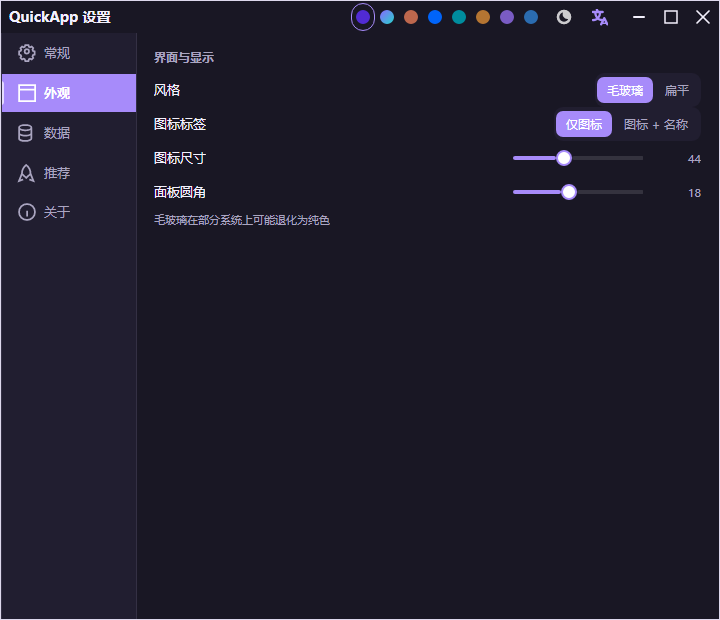
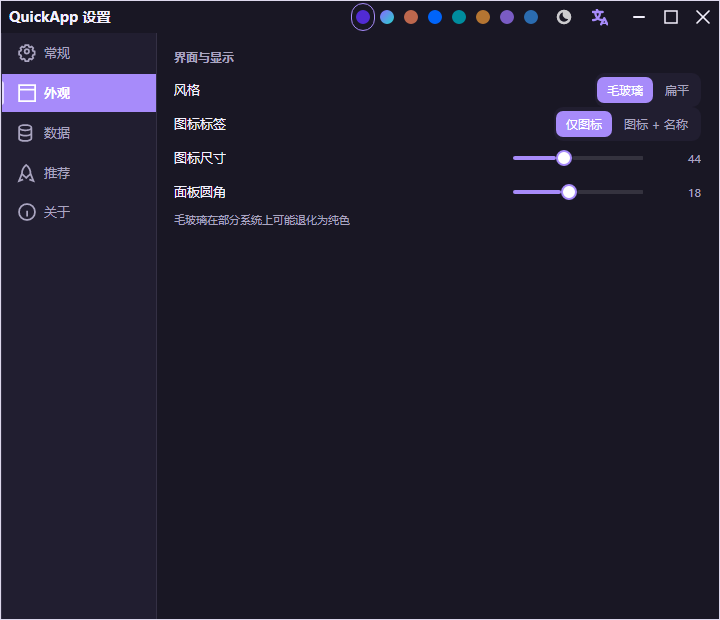
chore(release): 发布 0.9.4 并同步原型与原生验收截图

Changed region(s): [[0.2139, 0.2452, 0.4889, 0.3677], [0.1833, 0.0613, 0.3361, 0.2145]]

diff --git a/design/index.html b/design/index.html
@@ -418,7 +418,7 @@ html[data-edit="true"] .dock-tools{
 .modal-body{padding:6px 16px 16px}
 .settings-card{width:700px;max-width:94vw;overflow:hidden}
 .settings-layout{display:flex;min-height:430px;max-height:calc(86vh - 58px)}
-.settings-nav{width:136px;flex:0 0 auto;padding:8px 0;background:var(--hover);border-right:1px solid var(--line);display:flex;flex-direction:column;gap:2px}
+.settings-nav{width:156px;flex:0 0 auto;padding:8px 0;background:var(--hover);border-right:1px solid var(--line);display:flex;flex-direction:column;gap:2px}
 .settings-tab{
   position:relative;display:flex;align-items:center;width:100%;height:38px;padding:0 18px;
   color:var(--text-dim);font-size:13px;text-align:left;border-radius:0;transition:background 140ms linear,color 140ms linear;
@@ -900,7 +900,7 @@ html[data-edge="left"] .dock-items.searching,html[data-edge="right"] .dock-items
             <div><strong>QuickApp</strong><span>快捷应用启动器</span></div>
           </div>
           <div class="group">
-            <div class="row"><span class="row-label">版本</span><span class="spacer"></span><span class="row-note">v0.9.3</span></div>
+            <div class="row"><span class="row-label">版本</span><span class="spacer"></span><span class="row-note">v0.9.4</span></div>
             <div class="row"><span class="row-label">开发平台</span><span class="spacer"></span><span class="row-note">.NET 10 · Avalonia 12.1.4 · win-x64</span></div><div class="row"><span class="row-label">编译时间</span><span class="spacer"></span><span class="row-note">2026-10-15 00:00:00</span></div><div class="row"><span class="row-label">定位</span><span class="spacer"></span><span class="row-note">快速打开软件、文件、目录、网址与常用命令</span></div>
           </div>
           <div class="group">
@@ -925,7 +925,7 @@ html[data-edge="left"] .dock-items.searching,html[data-edge="right"] .dock-items
 <div class="modal-layer" id="aboutLayer" hidden><div class="scrim" data-dismiss="aboutLayer"></div><div class="modal-card standalone-about" role="dialog" aria-modal="true" aria-labelledby="standaloneAboutTitle">
 <div class="modal-head"><h2 id="standaloneAboutTitle">关于</h2><button class="icon-btn" id="standaloneAboutClose" data-icon="x" aria-label="关闭"></button></div>
[1 lines of base64/hex data omitted]
-<dl class="standalone-about-info"><dt>版本</dt><dd>v0.9.3</dd><dt>开发平台</dt><dd>.NET 10 · Avalonia 12.1.4 · win-x64</dd><dt>编译时间</dt><dd>2026-10-15 00:00:00</dd><dt>作者</dt><dd>沙漠尽头的狼</dd></dl>
+<dl class="standalone-about-info"><dt>版本</dt><dd>v0.9.4</dd><dt>开发平台</dt><dd>.NET 10 · Avalonia 12.1.4 · win-x64</dd><dt>编译时间</dt><dd>2026-10-15 00:00:00</dd><dt>作者</dt><dd>沙漠尽头的狼</dd></dl>
 <p class="row-note">https://github.com/dotnet9/QuickApp</p><hr><p id="standaloneUpdateStatus">尚未检查</p><div class="about-links"><button class="chip" id="standaloneCheckUpdate">检查更新</button></div><p class="row-note">版权所有 © Dotnet9</p></div></div></div>
 <div class="modal-layer" id="editorLayer" hidden><div class="scrim" data-dismiss="editorLayer"></div><form class="modal-card item-editor" id="editor" role="dialog" aria-modal="true" aria-labelledby="editorTitle">
 <div class="modal-head"><h2 id="editorTitle">编辑快捷项</h2><button type="button" class="icon-btn" data-icon="x" id="close" aria-label="关闭"></button></div>
@@ -1927,7 +1927,7 @@ window.QA = (function(){
   $('#standaloneAboutClose').onclick = () => closeLayer('aboutLayer');
   $('#standaloneCheckUpdate').onclick = () => {
     $('#standaloneUpdateStatus').textContent='正在检查…';$('#standaloneCheckUpdate').disabled=true;
-    setTimeout(()=>{update={phase:'found',tag:'v0.9.4',progress:0,installer:true,notes:'维护更新'};$('#standaloneUpdateStatus').textContent='发现新版本 v0.9.4';$('#standaloneCheckUpdate').disabled=false;openUpdateNotes();},500);
+    setTimeout(()=>{update={phase:'found',tag:'v0.9.5',progress:0,installer:true,notes:'维护更新'};$('#standaloneUpdateStatus').textContent='发现新版本 v0.9.5';$('#standaloneCheckUpdate').disabled=false;openUpdateNotes();},500);
   }; $('#dialogClose').onclick = () => closeLayer('dialogLayer');
   $$('[data-dismiss]').forEach(el => el.onclick = () => closeLayer(el.dataset.dismiss));
   $$('[data-tab]').forEach((tab, i, tabs) => {
@@ -1945,12 +1945,12 @@ window.QA = (function(){
   $('#aboutLicense').onclick = () => dialog('许可证', [h('h3', {text:'MIT License'}), h('p', {text:'Copyright (c) QuickApp contributors'}), h('p', {text:'Permission is hereby granted, free of charge, to any person obtaining a copy of this software and associated documentation files, to deal in the Software without restriction.'}), h('p', {text:'THE SOFTWARE IS PROVIDED “AS IS”, WITHOUT WARRANTY OF ANY KIND.'})], [chip('关闭', () => closeLayer('dialogLayer'), true)]);
   $('#aboutCheckUpdate').onclick = () => {
     $('#aboutCheckResult').textContent = '正在检查…'; $('#aboutCheckUpdate').disabled = true;
-    setTimeout(() => { update = {phase:'found', tag:'v0.9.4', progress:0, installer:true, notes:'## 应用多开（启动数量）\n\n- 程序 / 文件 / 目录条目可填写「启动数量」，一次点击连续启动多个实例。\n- 旧配置没有该字段即为 1，导入导出与存储模式切换一并保留。\n- 在「关于」检查到新版本时直接弹出版本说明。'}; $('#aboutCheckResult').textContent = '发现新版本 v0.9.4'; $('#aboutCheckUpdate').disabled = false; closeLayer('settingsLayer'); openUpdateNotes(); }, 500);
+    setTimeout(() => { update = {phase:'found', tag:'v0.9.5', progress:0, installer:true, notes:'## 应用多开（启动数量）\n\n- 程序 / 文件 / 目录条目可填写「启动数量」，一次点击连续启动多个实例。\n- 旧配置没有该字段即为 1，导入导出与存储模式切换一并保留。\n- 在「关于」检查到新版本时直接弹出版本说明。'}; $('#aboutCheckResult').textContent = '发现新版本 v0.9.5'; $('#aboutCheckUpdate').disabled = false; closeLayer('settingsLayer'); openUpdateNotes(); }, 500);
   };
   /* 版本说明卡片：已安装版本 / 最新版本 / 更新说明；按钮在 下载 → 安装 之间切换 */
   function openUpdateNotes() {
     const notes = h('div', {class:'stack'},
-      h('div', {class:'row'}, h('span', {class:'row-label', text:'已安装版本'}), h('span', {class:'spacer'}), h('span', {class:'row-note', text:'v0.9.3'})),
+      h('div', {class:'row'}, h('span', {class:'row-label', text:'已安装版本'}), h('span', {class:'spacer'}), h('span', {class:'row-note', text:'v0.9.4'})),
       h('div', {class:'row'}, h('span', {class:'row-label', text:'最新版本'}), h('span', {class:'spacer'}), h('span', {class:'row-note update-notes-version', text:update.tag})),
       h('label', {text:'更新说明'}), h('pre', {class:'update-notes-text', text:update.notes}));
     const install = chip(update.phase === 'ready' ? '安装' : '下载', () => {

diff --git a/design/assets/app.js b/design/assets/app.js
@@ -427,7 +427,7 @@
   $('#standaloneAboutClose').onclick = () => closeLayer('aboutLayer');
   $('#standaloneCheckUpdate').onclick = () => {
     $('#standaloneUpdateStatus').textContent='正在检查…';$('#standaloneCheckUpdate').disabled=true;
-    setTimeout(()=>{update={phase:'found',tag:'v0.9.4',progress:0,installer:true,notes:'维护更新'};$('#standaloneUpdateStatus').textContent='发现新版本 v0.9.4';$('#standaloneCheckUpdate').disabled=false;openUpdateNotes();},500);
+    setTimeout(()=>{update={phase:'found',tag:'v__UPDATE_VERSION__',progress:0,installer:true,notes:'维护更新'};$('#standaloneUpdateStatus').textContent='发现新版本 v__UPDATE_VERSION__';$('#standaloneCheckUpdate').disabled=false;openUpdateNotes();},500);
   }; $('#dialogClose').onclick = () => closeLayer('dialogLayer');
   $$('[data-dismiss]').forEach(el => el.onclick = () => closeLayer(el.dataset.dismiss));
   $$('[data-tab]').forEach((tab, i, tabs) => {
@@ -445,12 +445,12 @@
   $('#aboutLicense').onclick = () => dialog('许可证', [h('h3', {text:'MIT License'}), h('p', {text:'Copyright (c) QuickApp contributors'}), h('p', {text:'Permission is hereby granted, free of charge, to any person obtaining a copy of this software and associated documentation files, to deal in the Software without restriction.'}), h('p', {text:'THE SOFTWARE IS PROVIDED “AS IS”, WITHOUT WARRANTY OF ANY KIND.'})], [chip('关闭', () => closeLayer('dialogLayer'), true)]);
   $('#aboutCheckUpdate').onclick = () => {
     $('#aboutCheckResult').textContent = '正在检查…'; $('#aboutCheckUpdate').disabled = true;
-    setTimeout(() => { update = {phase:'found', tag:'v0.9.4', progress:0, installer:true, notes:'## 应用多开（启动数量）\n\n- 程序 / 文件 / 目录条目可填写「启动数量」，一次点击连续启动多个实例。\n- 旧配置没有该字段即为 1，导入导出与存储模式切换一并保留。\n- 在「关于」检查到新版本时直接弹出版本说明。'}; $('#aboutCheckResult').textContent = '发现新版本 v0.9.4'; $('#aboutCheckUpdate').disabled = false; closeLayer('settingsLayer'); openUpdateNotes(); }, 500);
+    setTimeout(() => { update = {phase:'found', tag:'v__UPDATE_VERSION__', progress:0, installer:true, notes:'## 应用多开（启动数量）\n\n- 程序 / 文件 / 目录条目可填写「启动数量」，一次点击连续启动多个实例。\n- 旧配置没有该字段即为 1，导入导出与存储模式切换一并保留。\n- 在「关于」检查到新版本时直接弹出版本说明。'}; $('#aboutCheckResult').textContent = '发现新版本 v__UPDATE_VERSION__'; $('#aboutCheckUpdate').disabled = false; closeLayer('settingsLayer'); openUpdateNotes(); }, 500);
   };
   /* 版本说明卡片：已安装版本 / 最新版本 / 更新说明；按钮在 下载 → 安装 之间切换 */
   function openUpdateNotes() {
     const notes = h('div', {class:'stack'},
-      h('div', {class:'row'}, h('span', {class:'row-label', text:'已安装版本'}), h('span', {class:'spacer'}), h('span', {class:'row-note', text:'v0.9.3'})),
+      h('div', {class:'row'}, h('span', {class:'row-label', text:'已安装版本'}), h('span', {class:'spacer'}), h('span', {class:'row-note', text:'v__APP_VERSION__'})),
       h('div', {class:'row'}, h('span', {class:'row-label', text:'最新版本'}), h('span', {class:'spacer'}), h('span', {class:'row-note update-notes-version', text:update.tag})),
       h('label', {text:'更新说明'}), h('pre', {class:'update-notes-text', text:update.notes}));
     const install = chip(update.phase === 'ready' ? '安装' : '下载', () => {

diff --git a/scripts/prototype-source/index.template.html b/scripts/prototype-source/index.template.html
@@ -135,7 +135,7 @@
             <div><strong>QuickApp</strong><span>快捷应用启动器</span></div>
           </div>
           <div class="group">
-            <div class="row"><span class="row-label">版本</span><span class="spacer"></span><span class="row-note">v0.9.3</span></div>
+            <div class="row"><span class="row-label">版本</span><span class="spacer"></span><span class="row-note">v__APP_VERSION__</span></div>
             <div class="row"><span class="row-label">开发平台</span><span class="spacer"></span><span class="row-note">.NET 10 · Avalonia 12.1.4 · win-x64</span></div><div class="row"><span class="row-label">编译时间</span><span class="spacer"></span><span class="row-note">2026-10-15 00:00:00</span></div><div class="row"><span class="row-label">定位</span><span class="spacer"></span><span class="row-note">快速打开软件、文件、目录、网址与常用命令</span></div>
           </div>
           <div class="group">
@@ -160,7 +160,7 @@
 <div class="modal-layer" id="aboutLayer" hidden><div class="scrim" data-dismiss="aboutLayer"></div><div class="modal-card standalone-about" role="dialog" aria-modal="true" aria-labelledby="standaloneAboutTitle">
 <div class="modal-head"><h2 id="standaloneAboutTitle">关于</h2><button class="icon-btn" id="standaloneAboutClose" data-icon="x" aria-label="关闭"></button></div>
 <div class="standalone-about-body"><div class="standalone-about-hero"><img src="../logo.svg" alt="QuickApp logo"><div><strong>QuickApp</strong><span>快捷应用启动器</span></div></div>
-<dl class="standalone-about-info"><dt>版本</dt><dd>v0.9.3</dd><dt>开发平台</dt><dd>.NET 10 · Avalonia 12.1.4 · win-x64</dd><dt>编译时间</dt><dd>2026-10-15 00:00:00</dd><dt>作者</dt><dd>沙漠尽头的狼</dd></dl>
+<dl class="standalone-about-info"><dt>版本</dt><dd>v__APP_VERSION__</dd><dt>开发平台</dt><dd>.NET 10 · Avalonia 12.1.4 · win-x64</dd><dt>编译时间</dt><dd>2026-10-15 00:00:00</dd><dt>作者</dt><dd>沙漠尽头的狼</dd></dl>
 <p class="row-note">https://github.com/dotnet9/QuickApp</p><hr><p id="standaloneUpdateStatus">尚未检查</p><div class="about-links"><button class="chip" id="standaloneCheckUpdate">检查更新</button></div><p class="row-note">版权所有 © Dotnet9</p></div></div></div>
 <div class="modal-layer" id="editorLayer" hidden><div class="scrim" data-dismiss="editorLayer"></div><form class="modal-card item-editor" id="editor" role="dialog" aria-modal="true" aria-labelledby="editorTitle">
 <div class="modal-head"><h2 id="editorTitle">编辑快捷项</h2><button type="button" class="icon-btn" data-icon="x" id="close" aria-label="关闭"></button></div>

diff --git a/design/assets/proto.css b/design/assets/proto.css
@@ -413,7 +413,7 @@ html[data-edit="true"] .dock-tools{
 .modal-body{padding:6px 16px 16px}
 .settings-card{width:700px;max-width:94vw;overflow:hidden}
 .settings-layout{display:flex;min-height:430px;max-height:calc(86vh - 58px)}
-.settings-nav{width:136px;flex:0 0 auto;padding:8px 0;background:var(--hover);border-right:1px solid var(--line);display:flex;flex-direction:column;gap:2px}
+.settings-nav{width:156px;flex:0 0 auto;padding:8px 0;background:var(--hover);border-right:1px solid var(--line);display:flex;flex-direction:column;gap:2px}
 .settings-tab{
   position:relative;display:flex;align-items:center;width:100%;height:38px;padding:0 18px;
   color:var(--text-dim);font-size:13px;text-align:left;border-radius:0;transition:background 140ms linear,color 140ms linear;

diff --git a/docs/UI-VERIFICATION.md b/docs/UI-VERIFICATION.md
@@ -1,18 +1,18 @@
-# QuickApp 0.9.3 界面验证
+# QuickApp 0.9.4 界面验证
 
 本轮在 Windows x64 使用正式 `scripts/publish.ps1` 发布 NativeAOT，并在 Avalonia Headless + Skia 中运行实际窗口。测试隔离配置、下载目录和安装服务，不修改用户快捷项、不真实安装软件。
 
-最终产物使用共享控件与国际化包 `12.1.4.22`：正式发布程序 `--selfcheck`、原生 UI verifier 的 105 条断言、Windows Inno Setup 安装包编译及 SHA-256 生成均通过。README 静态截图取自该版本原生验证器。安装器未实际运行。
+最终产物使用共享控件与国际化包 `12.1.4.22`：正式发布程序 `--selfcheck`、原生 UI verifier 的 127 条主断言和 10 项主题语言检查、Windows Inno Setup 安装包编译及 SHA-256 生成均通过。README 静态截图取自该版本原生验证器。安装器未实际运行。
 
 ## 已验证
 
 - Core 189 项测试。
-- 实际窗口 105 条状态断言，输出 41 张截图：八色 × 浅深两态、跟随系统独立保存、中英五设置页、四边 Dock、搜索与编辑模式、三类快捷项、独立关于和版本说明。
+- 实际窗口 127 条主断言和 10 项主题语言检查，输出 51 张截图：八色 × 浅深两态、跟随系统独立保存、中英五设置页、四边 Dock、搜索与编辑模式、三类快捷项、独立关于和版本说明。
 - 设置窗口标题栏只保留八个配色点、Ursa 三态主题按钮、Semi 语言图标和语言菜单；外观页去掉重复入口。实际点击 Ursa 内部按钮，检查浅色、深色、系统三态及持久化；通过真实 ListBox 选中色点检查配色绑定。
 - 实际展开语言菜单并执行菜单项；检查 Ursa 内部按钮在中英和三态下的工具提示，提示文本绑定宿主 T4 资源，跟随全局语言即时刷新。
 - 同一个已打开的新增快捷项窗口切换语言，验证下拉框关闭状态的 `SelectionBoxItem`，避免旧语种缓存。
 - 更新服务使用受控实现覆盖新版本、当前版本、检查失败、平台无资产、下载就绪、取消和安装退出策略；真实安装器启动需用户主动执行。
-- 单文件原型复制到空目录后验收 44 个状态，禁止外部资源请求，并断言无脚本错误；覆盖中英、八色、浅深、五设置页、关于和版本说明。
+- 单文件原型复制到空目录后验收 46 个状态，禁止外部资源请求，并断言无脚本错误；覆盖中英、八色、浅深、五设置页、关于和版本说明。
 - T4 生成结果与 JSON 资源一致；宿主输出 JSON，仅使用一个 Toolkit 国际化管理器。
 - 内嵌 SVG 先规范化为 UTF-8/LF，再编码为 Base64；分别使用 LF 和 CRLF 源文件验证产物一致，避免全新 Windows 检出后原型检查失败。
 - macOS 的宿主 JSON 放入 `Contents/Resources/I18n`，应用兼容该标准路径，打包时在搬移后再次自检；Windows 使用显式进程等待读取 GUI 自检的实际退出码。
@@ -29,7 +29,7 @@
 | 关于 | 独立窗口，版本、运行时、架构、编译时间、主页与仓库、许可和更新状态 |
 | 下载交互 | 原型模拟状态；实际程序通过 Toolkit 执行请求、校验和受控安装 |
 
-2026-10-15 逐图对照中文、.NET 深色、720 × 620 的外观页：32 px 标题栏、136 px 导航、13 px 主文字和四行设置的密度一致。浏览器原生滑块与 Semi 滑块的轨道、滑块轮廓不同，部分文字基线约差 3 px；保留现有主题控件，不以这些差异宣称像素完全一致。
+2026-10-15 逐图对照中文、.NET 深色、720 × 620 的外观页：32 px 标题栏、156 px 导航、13 px 主文字和四行设置的密度一致。浏览器原生滑块与 Semi 滑块的轨道、滑块轮廓不同，部分文字基线约差 3 px；保留现有主题控件，不以这些差异宣称像素完全一致。
 
 不以主观百分比代替验证结果。字体栅格化、窗口阴影、系统托盘、毛玻璃、系统文件选择器和真实鼠标拖拽仍受平台影响；离屏截图不能替代普通桌面操作验收。Linux 和 macOS 的 NativeAOT 与安装包由各自原生 CI runner 验证，本机未执行这些平台的安装。
 
@@ -48,3 +48,10 @@ artifacts/publish/win-x64/net10.0-windows/QuickApp/QuickApp.exe --selfcheck
 ```
 
 仓库仅引用公开 NuGet 包，不提交本地源配置；开发时可按环境变量 `temp_nugets` 使用最新中间包。
+
+
+## 0.9.4 增量复核
+
+Semi 与 Ursa 跟随唯一全局语言切换更新自身 Locale，保留宿主同键覆盖。同一个输入框复制／粘贴菜单往返切语四次，Ursa 取消文案及宿主覆盖均进入实际视图回归。修复 720 × 540 英文数据页重新加载按钮被裁掉的问题：操作按钮自动换行，长配置路径和存储说明可换行，侧栏固定 156 px 并与原型同步。两语五设置页输出最小窗口截图，检查五个配置操作的完整边界，并实际触发重新加载隔离配置。
+
+最终正式发布、EXE 自检、原生界面与 Windows 安装包使用仅从 nuget.org 还原的隔离缓存和独立中间目录完成；README 更新为这次原生输出，不使用开发缓存中的同版本包。原型版本从项目生成，受控新版本按补丁号递增；46 个离线状态通过。精确安装包门禁新增 13 个受控场景，五个平台必须提供十个正确产品、版本和真实哈希的资产。未执行真实安装。

diff --git a/.github/release-notes/v0.9.4.md b/.github/release-notes/v0.9.4.md
@@ -1,0 +1,8 @@
+# QuickApp v0.9.4
+
+- 修复唯一全局语言切换后，Ursa 内建文案仍停留在启动语言的问题；Semi 与 Ursa 主题统一更新自身 `Locale`。
+- 保留宿主和局部资源的同键覆盖，已打开的 Semi 输入框复制／粘贴菜单跟随中英切换。
+- 增加同一个真实菜单、Ursa 内建资源和宿主覆盖回归，保留现有主题、快捷项与更新功能验证。
+- 发布前按 QuickApp 产品名、完整版本和五个 RID 的精确文件名检查安装包及真实 SHA-256，拒绝错产品、额外版本段和多余文件。
+- 修复最小设置窗口下英文配置操作被裁掉的问题，操作按钮自动换行，长路径和存储说明可换行；侧栏固定宽度并与原型同步。
+- 原型版本从项目生成，受控更新样例始终高于当前版本；最小窗口中英按钮边界与重新加载配置实际操作进入回归。

diff --git a/UpdateLog.md b/UpdateLog.md
@@ -1,5 +1,10 @@
 # 更新日志
 
+## 0.9.4 (2026-10-16)
+
+- Semi 与 Ursa 内建文案跟随唯一全局语言切换，保留宿主同键覆盖。
+- 增加真实菜单切语回归与五平台安装包名称、版本、哈希校验门禁。
+
 ## 0.9.2 (2026-10-15)
 
 - macOS 应用包将国际化 JSON 等资源放入 `Contents/Resources`，修复签名失败，搬移后再次自检。
